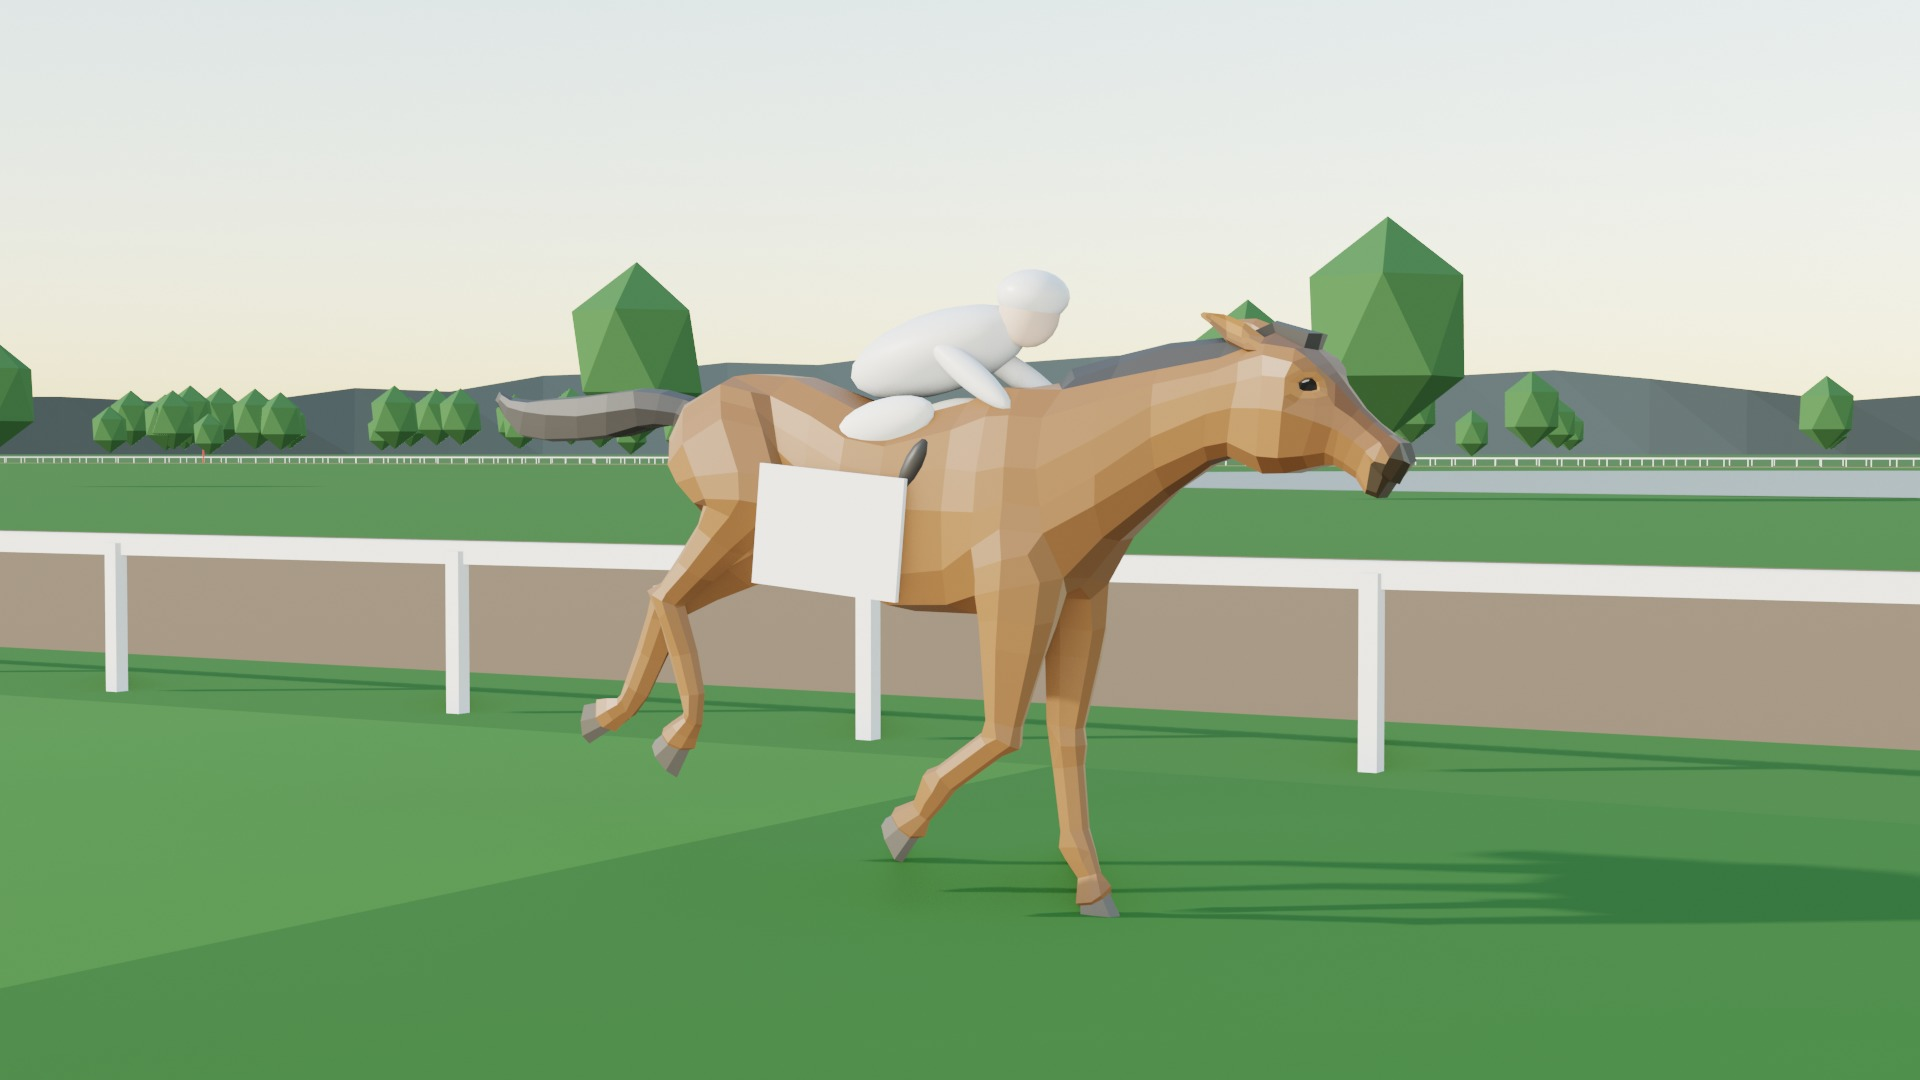
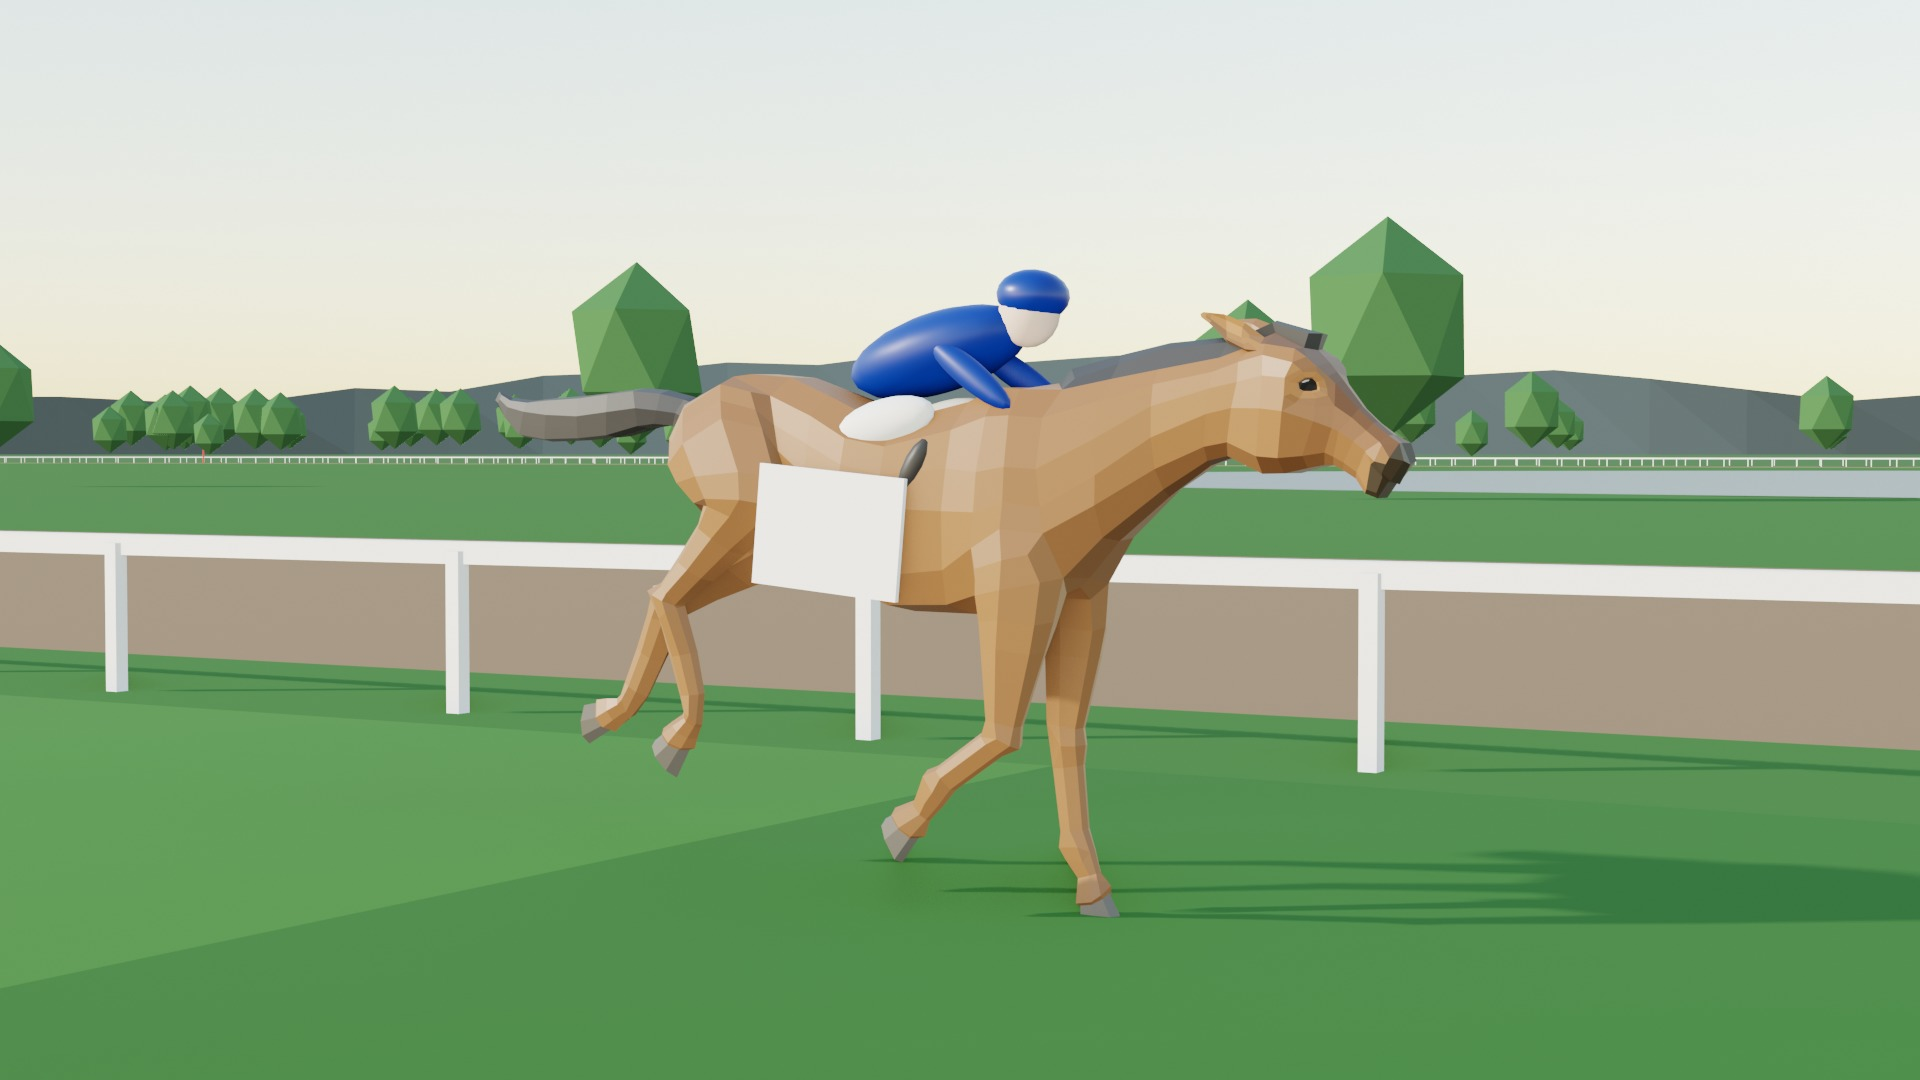
ジャパンC外国馬紹介: オンブズマンのCGにゴドルフィンの勝負服、冒頭をタイトルに合わせる、サムネ（本編・ショート3本）を追加
Claude-Session: https://claude.ai/code/session_011k293EGyuUqKiJCS8CZnSZ

Changed region(s): [[0.4375, 0.2444, 0.5625, 0.3972]]

diff --git a/scripts/foreign_intro.py b/scripts/foreign_intro.py
@@ -185,7 +185,7 @@ def build(data: dict, photos: Path, cg_bg: Path, out: Path, font: str, vertical:
 
             def name_plate(c):
                 if not own:                    # その馬の写真ではないことをはっきり書く
-                    note = ("画像：イメージ（CG）" if kind == "cg" else
+                    note = (h.get("photo_note") or "画像：イメージ（CG）" if kind == "cg" else
                             "画像：東京競馬場（CG）" if src == cg_bg else "写真：東京競馬場（イメージ）")
                     c.text(note, W - 24, (1100 if vertical else 50), 24, "0xFFFFFF@0.85", anchor="r", shadow=True)
                 if vertical:
